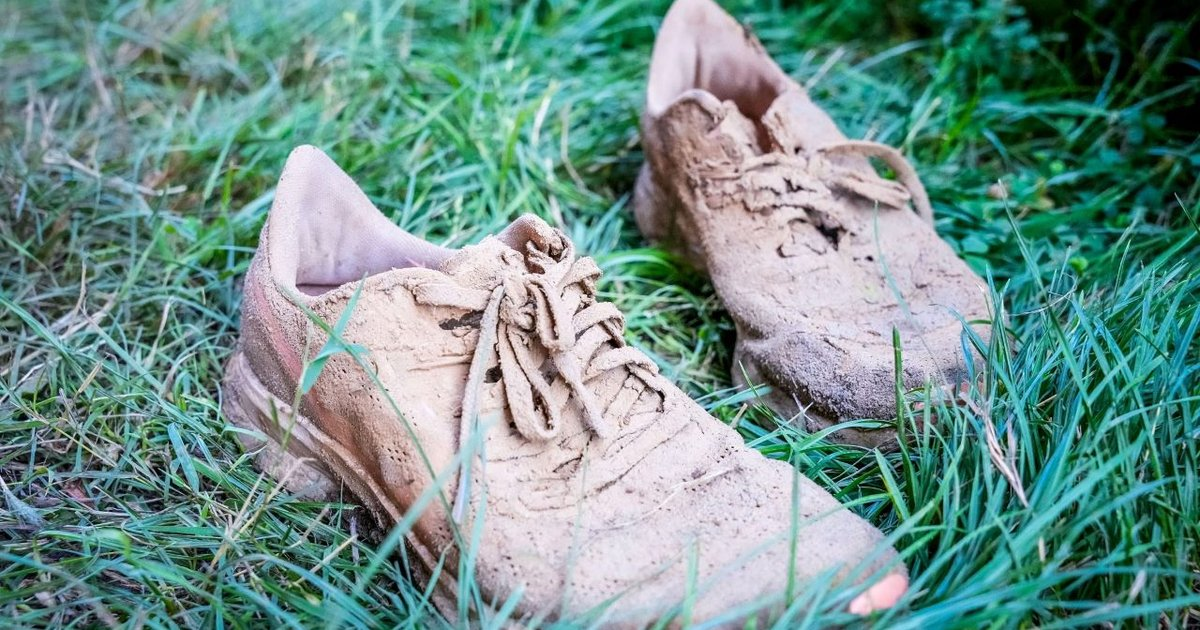
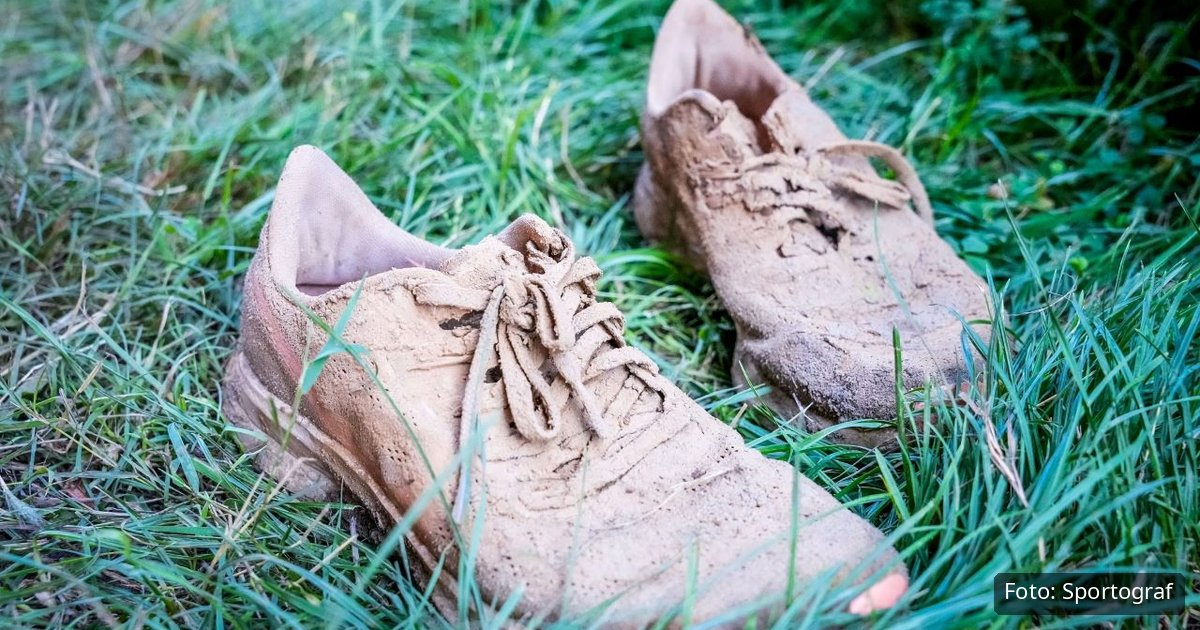
Credit Sportograf for the photos
- Add a small "Foto: Sportograf" credit to the default preview image,
  since link previews show the photo without the page caption
- Add a Bildnachweis section with a link to Sportograf to the Impressum

Changed region(s): [[0.8017, 0.9048, 0.9867, 0.9952]]

diff --git a/impressum.md b/impressum.md
@@ -23,3 +23,6 @@ Unser Angebot enthält Links zu externen Webseiten Dritter, auf deren Inhalte wi
 
 ## Urheberrecht
 Die durch die Seitenbetreiber erstellten Inhalte und Werke auf diesen Seiten unterliegen dem deutschen Urheberrecht. Die Vervielfältigung, Bearbeitung, Verbreitung und jede Art der Verwertung außerhalb der Grenzen des Urheberrechtes bedürfen der schriftlichen Zustimmung des jeweiligen Autors bzw. Erstellers. Downloads und Kopien dieser Seite sind nur für den privaten, nicht kommerziellen Gebrauch gestattet. Soweit die Inhalte auf dieser Seite nicht vom Betreiber erstellt wurden, werden die Urheberrechte Dritter beachtet. Insbesondere werden Inhalte Dritter als solche gekennzeichnet. Sollten Sie trotzdem auf eine Urheberrechtsverletzung aufmerksam werden, bitten wir um einen entsprechenden Hinweis. Bei Bekanntwerden von Rechtsverletzungen werden wir derartige Inhalte umgehend entfernen.
+
+## Bildnachweis
+Das Titelbild der Startseite, das Bild auf der Über-mich-Seite und das Standard-Vorschaubild für Links stammen von [Sportograf](https://www.sportograf.com/de).
